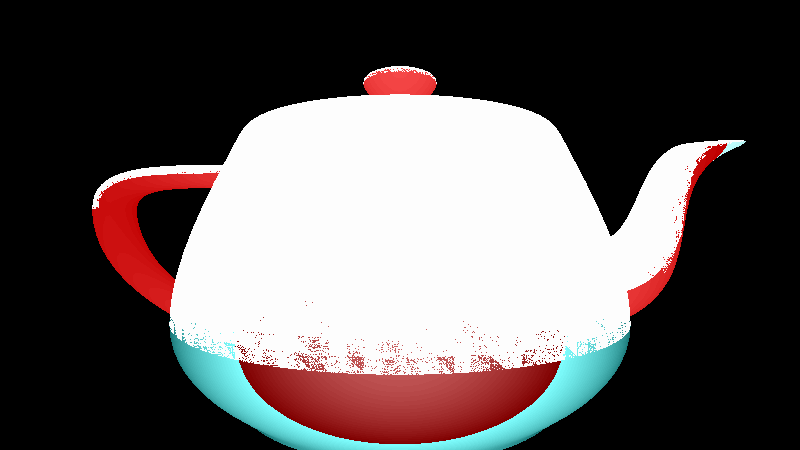
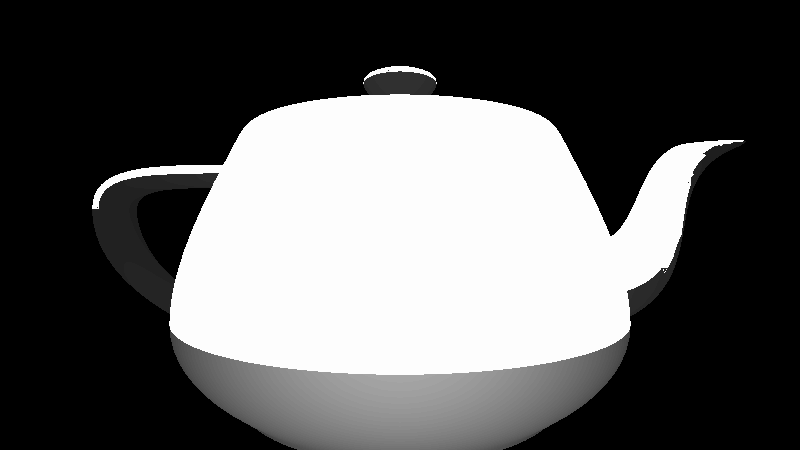
mend

diff --git a/src/renderer.rs b/src/renderer.rs
@@ -37,15 +37,15 @@ fn render(bvh: BvhTree, rays: Vec<Vec<[f32; 3]>>, bounces: usize) -> image::RgbI
       };
 		
 		  if k.is_finite(){
-        let origin = groot.camera_pos + (ray.normalize()*k) + vec3(0., f32::EPSILON*32., 0.);//origin is epsylon over hitted point
+        let origin = groot.camera_pos + (ray.normalize()*k) + vec3(0., f32::EPSILON*256., 0.);//origin is epsylon over hitted point
         if groot.get_first_hit_depth(&vec3(0., 1., 0.), origin).is_infinite(){
-          (*pixel).0[0] = (*pixel).0[0].overflowing_add((255f32 * (10f32/k)) as u8).0;
-          (*pixel).0[1] = (*pixel).0[1].overflowing_add((255f32 * (10f32/k)) as u8).0;//sun area
-          (*pixel).0[2] = (*pixel).0[2].overflowing_add((255f32 * (10f32/k)) as u8).0;
+          (*pixel).0[0] = (*pixel).0[0].overflowing_add((255f32) as u8).0;
+          (*pixel).0[1] = (*pixel).0[1].overflowing_add((255f32) as u8).0;//sun area
+          (*pixel).0[2] = (*pixel).0[2].overflowing_add((255f32) as u8).0;
         }else{
-          (*pixel).0[0] = (*pixel).0[0].overflowing_add((32f32 * (10f32/k)) as u8).0;
-          (*pixel).0[1] = (*pixel).0[1].overflowing_add((32f32 * (10f32/k)) as u8).0;//shady area
-          (*pixel).0[2] = (*pixel).0[2].overflowing_add((32f32 * (10f32/k)) as u8).0;
+          (*pixel).0[0] = (*pixel).0[0].overflowing_add((255f32 / (k*k)) as u8).0;
+          (*pixel).0[1] = (*pixel).0[1].overflowing_add((255f32 / (k*k)) as u8).0;//shady area
+          (*pixel).0[2] = (*pixel).0[2].overflowing_add((255f32 / (k*k)) as u8).0;
         }
 			  
 		  }else {
